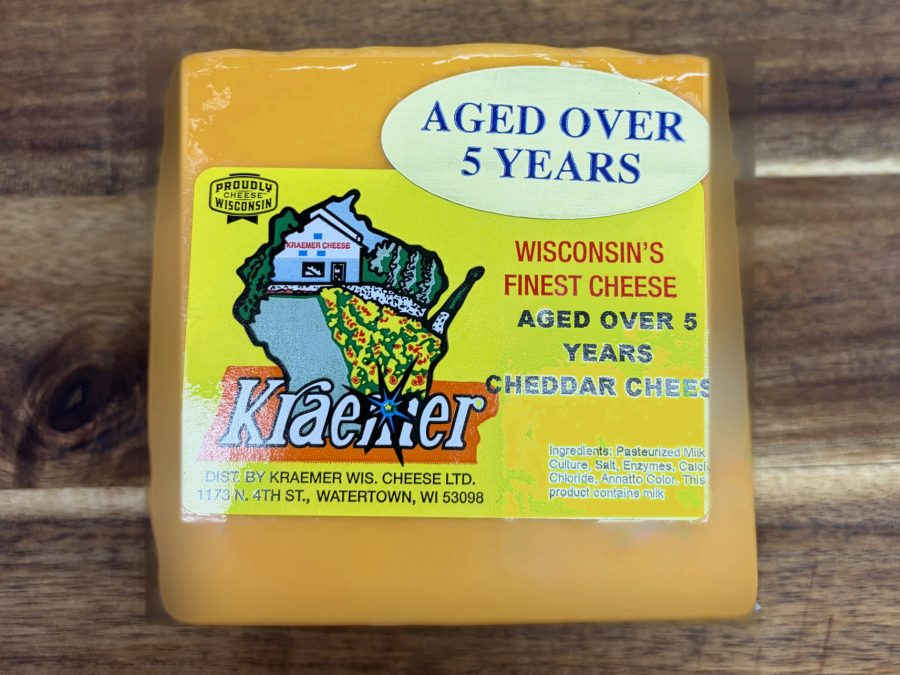
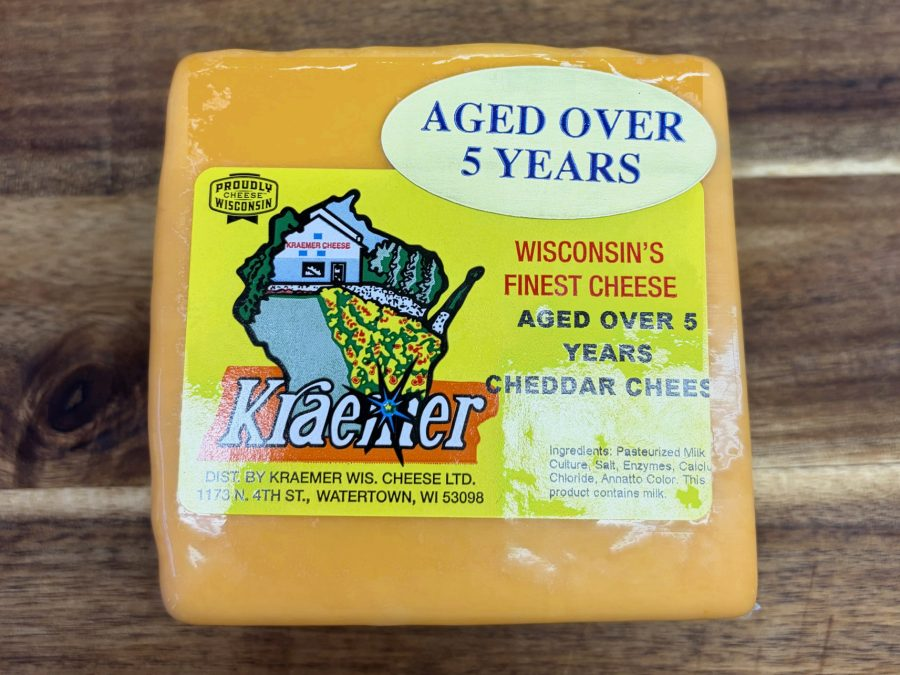
Kraemer: light glare reduction on all 9 cheeses
Claude-Session: https://claude.ai/code/session_014qB57dvqufRMR6M8RfTLRj

diff --git a/CLAUDE.md b/CLAUDE.md
@@ -13,7 +13,7 @@
 - Grilling & Outdoor always shows In Stock (template), fixed list only. Owner said 2026-11-03: do NOT add ice (KORONA group ICE stays off the site). Soda (Soda & Mixers → Soda) always shows In Stock, even without KORONA stock history (stock.mjs `alwaysIn`).
 - THC section (KORONA group THC) after Seltzers, 21+ only, auto-hides from 2026-12-11 (federal hemp THC limit) via `until` in SECTIONS.
 - KORONA tags override sections (TAG_SECTIONS / HIDE_TAGS in stock.mjs). Tag "Allocated Bourbon" -> Whiskey & Bourbon, shown in its own box on the right (top on phones).
-- Food photos: JPGs in public/img/food (900x675, 4:3, ~80 quality), set `photo:"file.jpg"` in tools/menu.js; build.py inlines them into preview.html (FOOD_PHOTOS). Owner sends phone photos; correct lighting (sun stripes on the wood board) and crop 4:3 around the dish. Rotate so the wood grain runs side to side (owner wants all photos to match). Packaged products (Local Favorites, vacuum packs): keep package upright, crop 4:3 to the label + top of product, and strongly remove plastic glare (owner approved 2026-11-04: inpaint white streaks on the product, darken streaks on black plastic toward black, never touch the label; leave the clear edge flap). Food: tame glare lightly only.
+- Food photos: JPGs in public/img/food (900x675, 4:3, ~80 quality), set `photo:"file.jpg"` in tools/menu.js; build.py inlines them into preview.html (FOOD_PHOTOS). Owner sends phone photos; correct lighting (sun stripes on the wood board) and crop 4:3 around the dish. Rotate so the wood grain runs side to side (owner wants all photos to match). Packaged products (Local Favorites, vacuum packs): keep package upright, crop 4:3 to the label + top of product, and remove plastic glare; Kraemer cheese blocks use the LIGHT touch only, owner preferred it (photowork kr.py LIGHT=True) (owner approved strong cleanup for vacuum packs 2026-11-04: inpaint white streaks on the product, darken streaks on black plastic toward black, never touch the label; leave the clear edge flap). Food: tame glare lightly only.
 - Local Favorites makers: Northern Trails & Kraemer (Watertown), Pernat's (Ixonia), Sausage Haus (Oconomowoc), Grebe's (West Allis). Each flavor is its own card/switch; `name` is the unique switch key, `label` is what shows.
 - Any KORONA group or product with "DO NOT USE" (or DNU) in its name is always skipped (RETIRED in stock.mjs). Owner retired groups this way, e.g. "DO NOT USE SODA", "DO NOT USE JUICE".
 - Owner preferences: Title Case on names, labels and buttons ("Mac & Cheese", "Each", "In Stock"). Never show "Call to Check".
